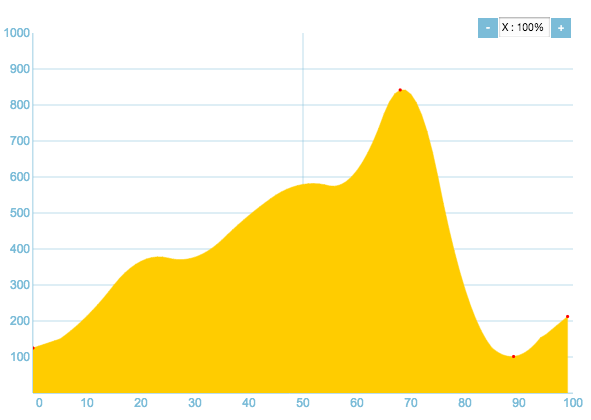
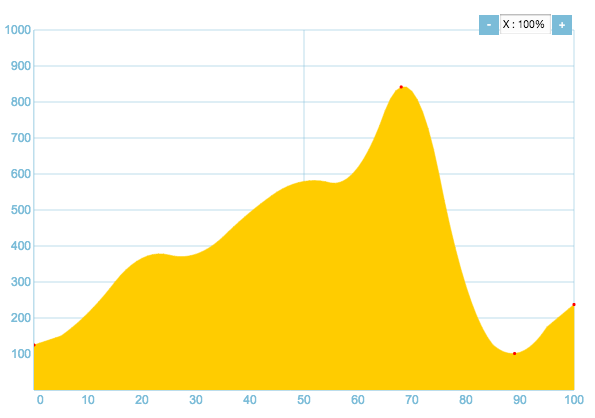
#7, [Bug] The last data of smoothed line is missing.

diff --git a/example/example-build.js b/example/example-build.js
@@ -13688,7 +13688,7 @@
 	      newPointList = [];
 	      for (index = i = 1, ref = this._pointList.length; 1 <= ref ? i < ref : i > ref; index = 1 <= ref ? ++i : --i) {
 	        incline = (this._pointList[index].y - this._pointList[index - 1].y) / (this._pointList[index].x - this._pointList[index - 1].x);
-	        while (xp < this._pointList[index].x) {
+	        while (xp <= this._pointList[index].x) {
 	          yp = this._pointList[index - 1].y + incline * (xp - this._pointList[index - 1].x);
 	          newPointList.push(new GraphPoint(xp, yp));
 	          xp += interval;
